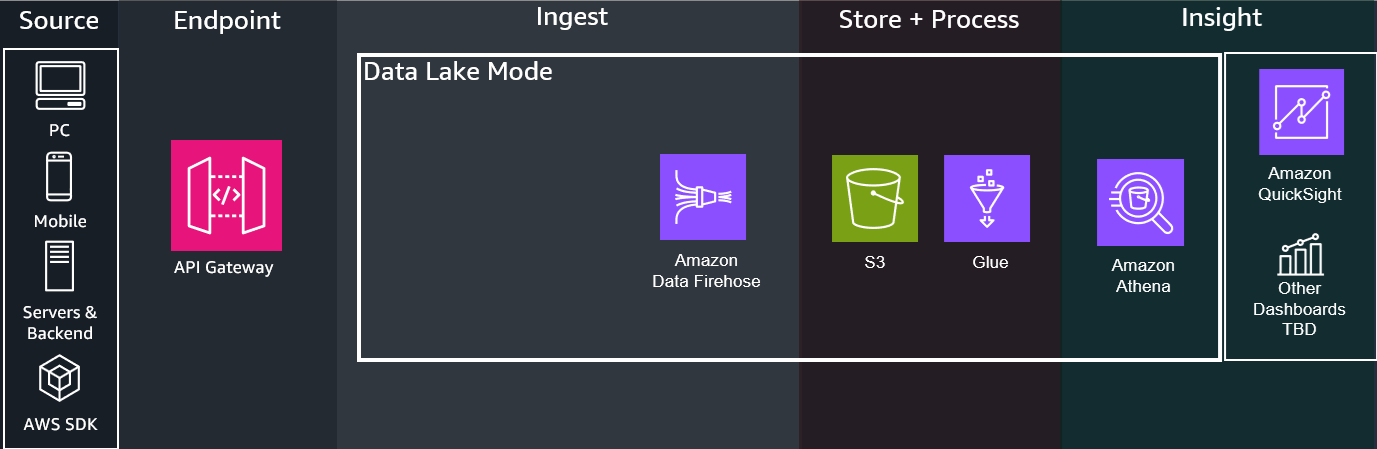
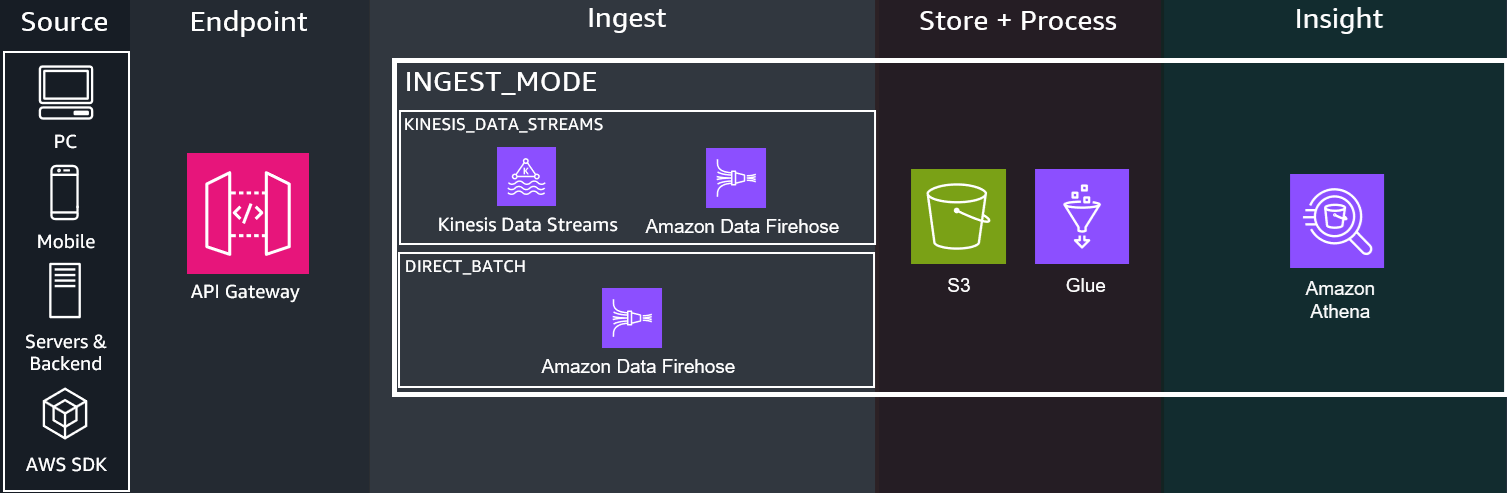
Doc fixes

diff --git a/docs/stylesheets/hero.css b/docs/stylesheets/hero.css
@@ -65,7 +65,7 @@
     display: grid;
     grid-template-columns: repeat(auto-fit, minmax(200px, 1fr));
     grid-gap: 3rem;
-    margin-bottom: 3rem;
+    margin-bottom: 2.5rem;
   }
   
   .mdx-features img {
@@ -91,6 +91,7 @@
     .mdx-hero__content {
       width: 50%;
       margin-top: 5rem;
+      height: 200px;
       padding-bottom: 20vh;
       text-align: left;
     }

diff --git a/infrastructure/aws-cdk/src/constructs/redshift-construct.ts b/infrastructure/aws-cdk/src/constructs/redshift-construct.ts
@@ -31,7 +31,7 @@ export interface RedshiftConstructProps extends cdk.StackProps {
 }
 
 const defaultProps = {
-  baseRPU: 8,
+  baseRPU: 4,
   port: 5639,
 };
 

diff --git a/docs/getting-started.md b/docs/getting-started.md
@@ -12,6 +12,12 @@ The following resources are required to install, configure, and deploy the game 
 - **[GitHub Account](https://docs.github.com/en/get-started/start-your-journey/creating-an-account-on-github)**
 - **[Visual Studio Code](https://code.visualstudio.com/Download)\***
 - **API Client: [Postman Desktop](https://www.postman.com/) or [Bruno](https://www.usebruno.com/)**
+- **IAM Users + Credentials**
+	- IAM User for deploying the guidance Infrastructure-as-Code resources
+	- IAM User with AWS Console access
+	- IAM User for administrating the API, requires [credentials (Access Key, Secret Access Key)](https://docs.aws.amazon.com/IAM/latest/UserGuide/id_credentials_access-keys.html)
+!!! Info
+	When using Access Keys and Secret Access Keys, a best practice is to periodically rotate them. This means your administrators and deployments will need to keep the rotation of your keys in mind as well, more information [here](https://docs.aws.amazon.com/IAM/latest/UserGuide/id-credentials-access-keys-update.html)
 
 *\*Other code editors can also be used, but tooling support may be limited*
 
@@ -169,8 +175,7 @@ npm run deploy.bootstrap
 ```bash
 npm run deploy
 ```
-
-**After deployment is complete, a list of outputs will be posted to the terminal. These are names and references to relevant deployed assets from the stack. Please note these for further reference.**
+After deployment is complete, a list of outputs will be posted to the terminal. These are names and references to relevant deployed assets from the stack. Please note these for future reference.
 
 ---
 
@@ -187,11 +192,12 @@ Before sending events to the pipeline, an Application and corresponding Authoriz
 
 	1. For instructions on how to import a collection, refer to the documentation for your selected API Client: [Import Postman data](https://learning.postman.com/docs/getting-started/importing-and-exporting/importing-data/#import-postman-data)
 	2. Once the collection is imported into Postman, create a new environment by selecting Environments in the sidebar and select the Add icon. You can also select the environment selector at the top right of the workbench and select Add icon. Enter a name for your new environment.
-	3. Once the collection is imported into your API client, configure the collection-wide `api_base_path` variable to be your deployed API base path. The value of the path should be the URL retrieved from step 1.
-	4. In order to perform administrator actions on your API, Authentication must be configured to utilize SigV4 authentication for an IAM identity. These credentials inherit from your `access_key` and `secret_access_key` variables configured in the collection. For more information, refer to [Authenticate with AWS Signature authentication workflow in Postman](https://learning.postman.com/docs/sending-requests/authorization/aws-signature/)
-	6. Replicate the following image for your environment:
+	3. In order to perform administrator actions on your API, Authentication must be configured to utilize SigV4 authentication for an IAM identity. These credentials inherit from your `access_key` and `secret_access_key` variables configured in the collection. For more information, refer to [Authenticate with AWS Signature authentication workflow in Postman](https://learning.postman.com/docs/sending-requests/authorization/aws-signature/)
+	4. Replicate the following image for your environment (Note: leave `application_id` blank. This will be filled in later):
+		- The AWS Access Key and Secret Access Key is specifically for administrating the API only, and should not be used by event sources. You should have an IAM User specifically with these credentials with sufficient permissions to run the tasks on the API, but for security best practice to use least privilege, a sample policy is created by the guidance `{WORKLOAD_NAME}-AdminAPIAccess` to attach to the user to perform only the admin tasks
 		![Postman Environment Sample](media/postman-environment-sample.png)
-	7. Ensure there are no trailing return/enter spaces at the end of the variables, and click "Save" on the top right.
+	5. Ensure there are no trailing return/enter spaces at the end of the variables, and click "Save" on the top right.
+	6. Select your newly created and saved environment by navigating to the top right drop-down menu that says `No environment`, selecting on it and selecting your new environment
 
 === "Bruno"
 
@@ -216,20 +222,23 @@ After the pipeline is deployed, a new application must be created using the Appl
 
 ### Create a new Application
 
-- Navigate under the **Applications** tab of the collection and select the **Create Application** API. 
-- Modify the value of Name and Description to match your game.
-- Execute the API. **Note the value of the `"ApplicationId"` in the API response.**
-- Copy the value of the ApplicationId and paste it in to the `application_id` value for the collection. This will allow the rest of your API calls to interact with the application
-- Refer to the [API Reference for POST - Create Application](./references/api-reference.md#post---create-application) for more information on how to register a new application. 
+The Game Analytics Pipeline Guidance is built to support multiple games, called `Applications` in the guidance, for cross-game and per-game analytics. This means usually you would only need to deploy a single pipeline per environment.
 
-After the application is created, create an API key to send events to the API. 
+- Navigate under the **Applications** tab of the collection and select the **Create Application** API. 
+- Navigate to the `Body` tab (under the address bar showing the API path) and modify the value of Name and Description in the json to match your game.
+- Send the API request. **Note the value of the `"ApplicationId"` in the API response.**
+- Copy the value of the ApplicationId and paste it in to the `application_id` value for the collection. This will allow the rest of your API calls to interact with the application
+!!! Note
+	Refer to the [API Reference for POST - Create Application](./references/api-reference.md#post---create-application) for more information on how to register a new application. 
+
+After the application is created, create an API key to send events to the API. Make sure to go back to Postman or Bruno if you are using them to update the environment variables (and save).
 
 ### Create a new API Key
 
 - Navigate under the **Authorizations** tab of the collection and select the **Create Authorization** API.
 - The `"ApplicationId"` from the previous step should be passed in the API path automatically. 
-- Modify the value of Name and Description to match the information about your key.
-- Execute the API. **Note the value of the `"ApiKeyValue"` in the API response.**
+- Navigate to the `Body` tab (under the address bar showing the API path) and modify the value of Name and Description in the json to match your game.
+- Send the API request. **Note the value of the `"ApiKeyValue"` in the API response.**
 - Refer to the [API Reference for POST - Create API Key for Application](./references/api-reference.md#post---create-api-key-for-application) for more information on how to create a new authorization key. 
 
 If you have Redshift Mode enabled, enable the materialized views and remaining infrastructure through the API. Refer to the [API Reference for POST - Setup Redshift](./references/api-reference.md#post-set-up-redshift) on how to setup the final Redshift components.
@@ -279,7 +288,7 @@ For more information and troubleshooting, refer to the documentation for [Run a 
 
 ## Send Events to the Pipeline
 
-This project contains a python script to send a simulated stream of events to the pipeline. The script is located at `resources/publish-data/handler.py`. To run the script, execute the following
+This project contains a python script to send a simulated stream of events to the pipeline. The script is located at `resources/publish-data/handler.py`. To run the script, run the following
 ```bash
 python resources/publish-data/handler.py --api-path <API_PATH> --api-key <API_KEY> --application-id <APPLICATION_ID>
 ```
@@ -320,7 +329,7 @@ For more information, refer to the [API Reference for POST - Send Events](./refe
 
 		![Athena 4](media/Athena-4.png)
 	
-	8. To run a query, click on the highlighted ID of the query to open it in a new query editor tab and then press Run to execute the query. View the results below after the query finishes executing.
+	8. To run a query, click on the highlighted ID of the query to open it in a new query editor tab and then press Run for the query. View the results below after the query finishes executing.
 
 		![Athena 5](media/Athena-5.png)
 

diff --git a/docs/component-deep-dive.md b/docs/component-deep-dive.md
@@ -1,5 +1,4 @@
 # Component Deep Dive
-NOTE: Include folder hierarchy for components
 
 ![Architecture-Simplified](media/architecture-simplified.png)
 
@@ -12,11 +11,13 @@ The Game Analytics Pipeline Guidance has the following modes:
 2. `REDSHIFT` - Deploys a serverless Redshift Data Warehouse cost-optimized for larger data scan volume and more frequent queries
 ![Architecture-Simplified-Redshift](media/architecture-simplified-redshift-mode.png)
 
-From there the Guidance allows several ingest options:
+From there the Guidance allows several ingest options. Some ingest options are required for certain modes, refer to [Configurations Reference Page](./references/config-reference.md) for a full list:
 
-1. `DIRECT_BATCH` - Does not deploy the real-time infrastructure components. Sends directly via batch in near-real-time, either to Firehose for `DATA_LAKE` mode, or to Redshift for `REDSHIFT` mode.
+1. `DIRECT_BATCH` - Does not deploy the real-time infrastructure components. Sends directly via batch in near-real-time to Firehose for `DATA_LAKE` mode
 
 2. `KINESIS_DATA_STREAMS` - Deploys additional real-time infrastructure components for real-time analysis
+
+Optionally, there is a real-time analytics mode for time-sensitive analytics:
 
 ![Architecture-Simplified-Real-Time](media/architecture-simplified-real-time.png)
 
@@ -24,7 +25,7 @@ For help deciding between the modes and options, or even for explanations and ju
 
 ---
 ## 1. Source
-The Game Analytics Pipeline Guidance can accept from any HTTP/HTTPS REST based sources, such as Game Clients, Game Servers, or Backend services. Refer to the [API Reference Page](./references/api-reference.md) and [Getting Started Guide](./getting-started.md) on how to send events to the endpoint.
+The Game Analytics Pipeline Guidance can accept from any HTTP/HTTPS REST supported sources, such as Game Clients, Game Servers, or Backend services. Refer to the [API Reference Page](./references/api-reference.md) and [Getting Started Guide](./getting-started.md) on how to send events to the endpoint.
 
 ![Architecture-Verbose-Source](media/architecture-verbose-source.png)
 
@@ -45,7 +46,7 @@ The Game Analytics Pipeline Guidance can accept from any HTTP/HTTPS REST based s
 4. [Based on the guidance configurations](./component-deep-dive.md#overview), API Gateway performs the following:
 
     - `KINESIS_DATA_STREAMS` - [Sends a passthrough call directly to Amazon Kinesis Data Streams](https://docs.aws.amazon.com/apigateway/latest/developerguide/http-api-develop-integrations-aws-services.html) via stream in real-time
-    - `DIRECT_BATCH` - [Sends a passthrough call directly to the Amazon services](https://docs.aws.amazon.com/apigateway/latest/developerguide/http-api-develop-integrations-aws-services.html) via batch in near-real-time, either to Firehose for `DATA_LAKE` mode, or to Redshift for `REDSHIFT` mode.
+    - `DIRECT_BATCH` - [Sends a passthrough call directly to the Amazon services](https://docs.aws.amazon.com/apigateway/latest/developerguide/http-api-develop-integrations-aws-services.html) via batch in near-real-time to Firehose for `DATA_LAKE` mode
 
 ![Architecture-Verbose-Endpoint](media/architecture-verbose-endpoint.png)
 
@@ -105,7 +106,7 @@ If `DIRECT_BATCH` is enabled, events come directly from API Gateway.
     <br>
     5. Athena is a serverless analytics query service that can perform ad-hoc queries and connect to analytics dashboards to use the queries to power visualizations. The guidance provides sample queries for common game use cases (see [Customizations](./customizations.md) for more details) along with sample operational CTAS (Create-Table-as-Select) queries that can also perform certain ad-hoc ETL.
 
-    6. Amazon QuickSight or other dashboard technologies can connect to Athena through their plugins, connectors, or direct integration. Dashboards will call Athena to perform the queries that power visualizations and provide insights to users.
+    6. Amazon QuickSight or other dashboard technologies can connect to Athena through their plugins, connectors, or direct integration. Dashboards will call Athena to perform the queries that power visualizations and provide insights to users. Dashboard integration is planned for future releases, and does not come directly with the guidance at this time. Refer to [Customizations](./customizations.md)
 
 === "Redshift Mode"
 
@@ -113,9 +114,10 @@ If `DIRECT_BATCH` is enabled, events come directly from API Gateway.
 
     1. An Amazon Redshift Serverless cluster is deployed. Redshift is initially not integrated with the Kinesis Data Stream until the `setup/redshift` API call - see [API Reference for POST - Setup Redshift](./references/api-reference.md#post-set-up-redshift), in which a [materialized view](https://docs.aws.amazon.com/redshift/latest/dg/materialized-view-streaming-ingestion.html) will be created, as well as a set of other views representing pre-made queries to get you started.
 
-    2. You can query data immediately using [Amazon Redshift Query Editor](https://aws.amazon.com/redshift/query-editor-v2/) in the AWS Console, or connect up other visualization tools compatible with Amazon Redshift.
+    2. You can query data immediately using [Amazon Redshift Query Editor](https://aws.amazon.com/redshift/query-editor-v2/) in the AWS Console, or connect up other visualization tools compatible with Amazon Redshift. Dashboard integration is planned for future releases, and does not come directly with the guidance at this time. Refer to [Customizations](./customizations.md)
 
-    3. By default, the cluster is configured with 8 RPU Compute Capacity, and is accessible on port 5439. Both can be configured in the redshift-construct source for your chosen Infrastructure as Code language in the respective Redshift Construct files.
+!!! Note
+    By default, the cluster is configured with 4 RPU Compute Capacity, and is accessible on port 5439. Both can be configured in the redshift-construct source for your chosen Infrastructure as Code language in the respective Redshift Construct files.
 
 ## Administration
 

diff --git a/docs/index.md b/docs/index.md
@@ -7,7 +7,7 @@ hero:
   subtitle: A sample infrastructure for getting started quickly with Game Analytics, built by AWS for the game development community.
   getting_started_button: Getting Started
   source_button: Source Code
-features: # NOTE: Update this for the new page format/order
+features:
   - title: References
     link: references/api-reference.html
     description: Reference guide for the guidance's API, event schema, repository files, and operational dashboard components
@@ -27,12 +27,10 @@ features: # NOTE: Update this for the new page format/order
     link: troubleshooting.html
     description: List of issue scenarios and steps to troubleshooting them
 companies:
-  title:
+  title: 
   list:
 ---
-
-# Overview
-
+# Made by Daniel Lee, Nathan Yee, Matthew Kwan, Christian Orellana, Rene Roldan
 The games industry is increasing adoption of the Games-as-a-Service operating model, where games have become more like a service than a product, and recurring revenue is frequently generated through in-app purchases, subscriptions, and other techniques. With this change, it is critical to develop a deeper understanding of how players use the features of games and related services. This understanding allows game developers to continually adapt, and make the necessary changes to keep players engaged.
 
 The Game Analytics Pipeline guidance helps game developers to apply a flexible, and scalable DataOps methodology to their games. Allowing them to continuously integrate, and continuously deploy (CI/CD) a scalable serverless data pipeline for ingesting, storing, and analyzing telemetry data generated from games, and services. The guidance supports streaming ingestion of data, allowing users to gain critical insights from their games, and other applications in near real-time, allowing them to focus on expanding, and improving game experience almost immediately, instead of managing the underlying infrastructure operations. Since the guidance has been codified as a CDK application, game developers can determine the best modules, or components that fit their use case, allowing them to test, and QA the best architecture before deploying into production. This modular system allows for additional AWS capabilities, such as AI/ML models, to be integrated into the architecture in order to further support real-time decision making, and automated LiveOps using AIOps, to further enhance player engagement. Essentially allowing developers to focus on expanding game functionality, rather than managing the underlying infrastructure operations.

diff --git a/docs/design-considerations.md b/docs/design-considerations.md
@@ -72,6 +72,12 @@ Why is there a Kinesis Data Stream in between Flink and Opensearch for Real-Time
 
 ---
 
+Do I deploy the Game Analytics Pipeline guidance for each game/application?
+
+- The Game Analytics Pipeline Guidance is built to support multiple games, called `Applications` in the guidance, for cross-game and per-game analytics. This means usually you would only need to deploy a single pipeline per environment.
+
+---
+
 When should I use Data Lake mode vs Redshift mode?
 
 The choice between AWS Data Lake mode and Redshift mode primarily depends on your latency requirements, query complexity, data volume, and concurrency needs.
